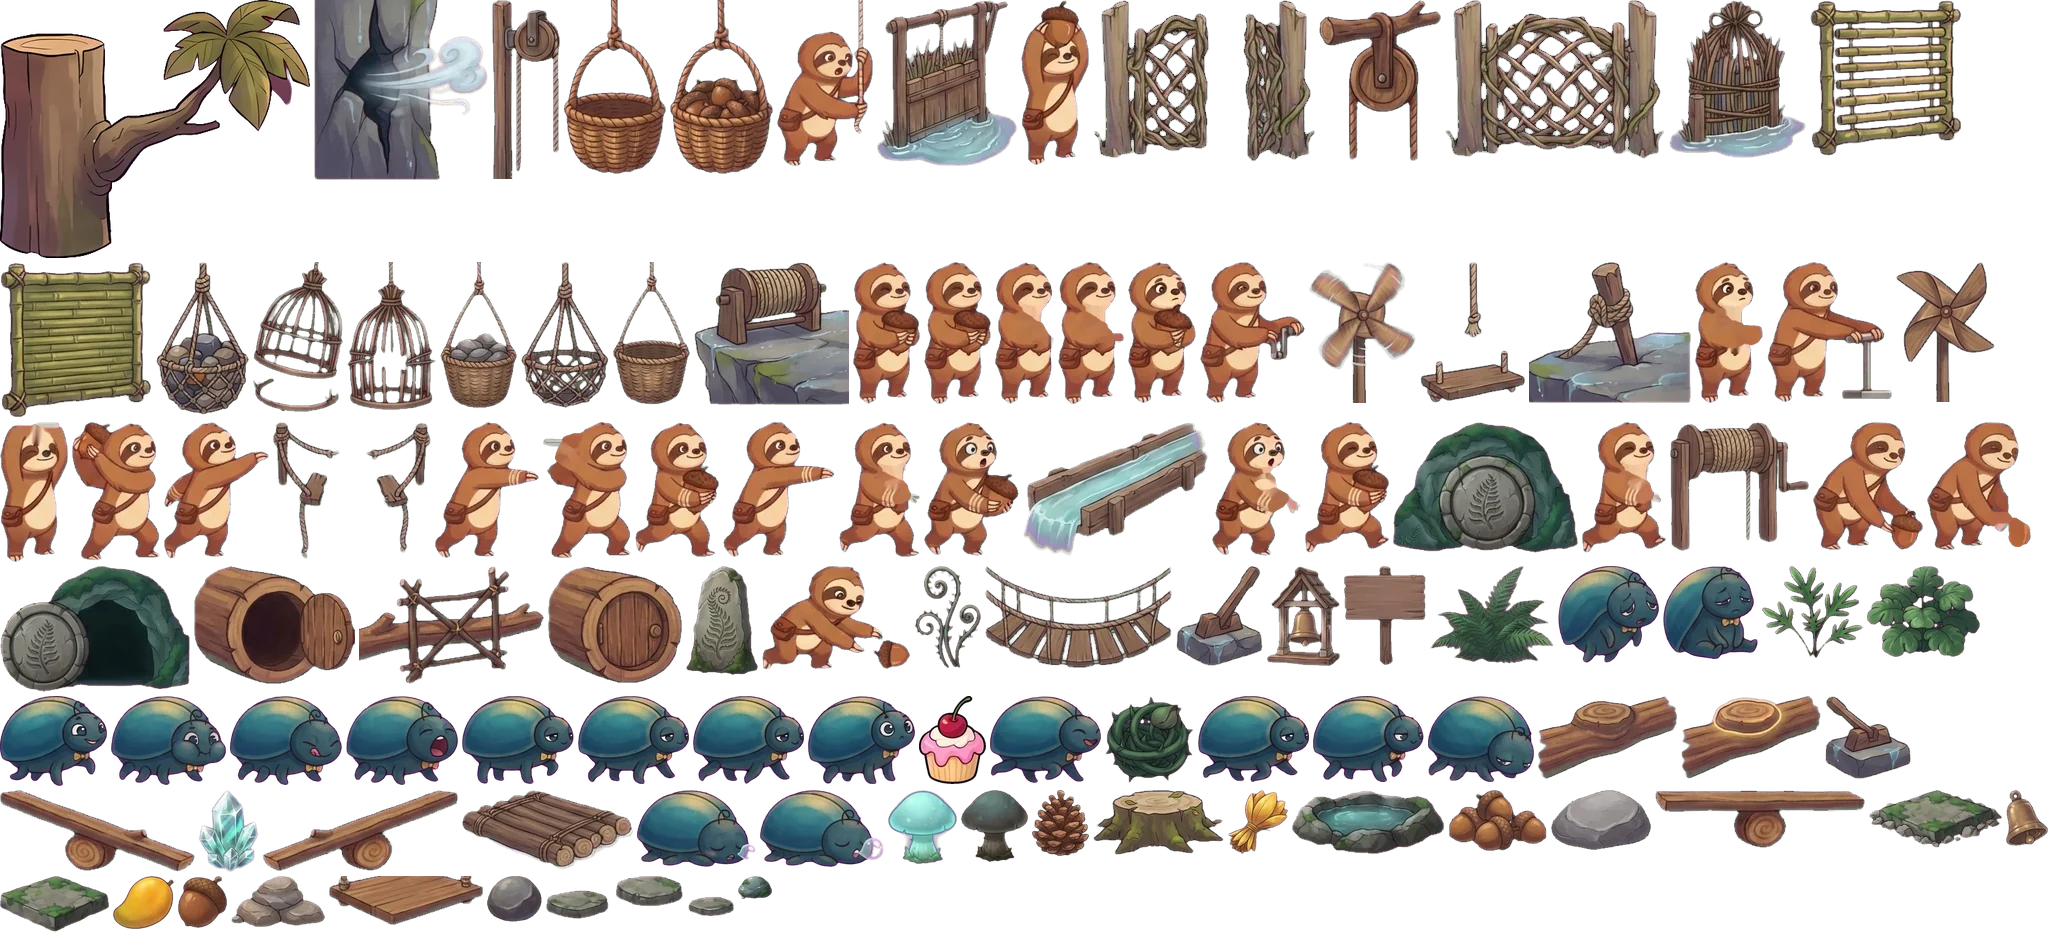
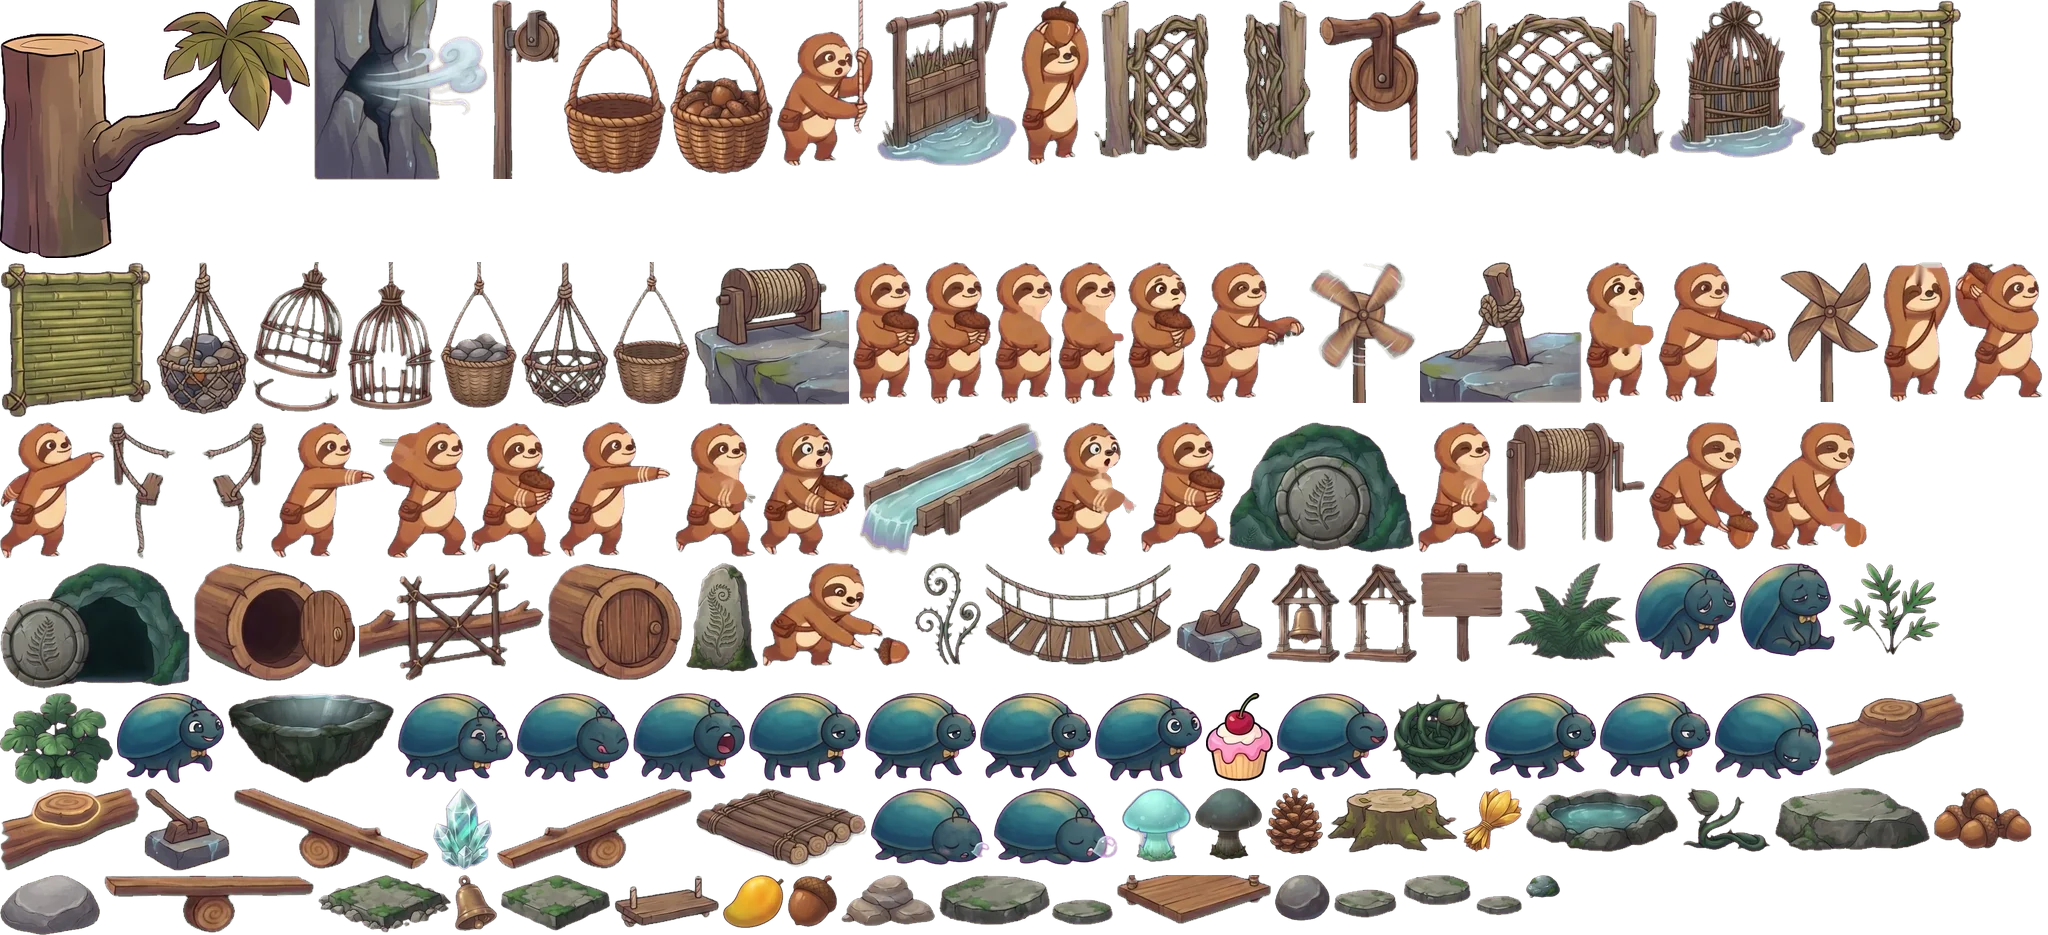
Puzzle kit atlas: the rest of Matt's World 1-4 sheet cells, and the state frames cut for use
- the belfry with its bell painted out (bellFrame), so the rung bell (bellRing) can swing in it
- World 2's pulley post without its painted hanging ropes (the game draws the real ones)
- World 4's rope lift cut to its plank (the lift's rope is the game's)
- Pokey's crank and push-lever poses with the painted crank and plunger taken out, so his hands go on the game's winch and lever
- World 3 cells 17-20 packed: the loose thorn vine, the stepping slabs, the big slab, the stone basin
- the river stone packed at a thrown stone's size
Atlas 2048 x 935, 600 KB.

Claude-Session: https://claude.ai/code/session_019iachLiuwNTAZUBSJWUmR3

diff --git a/src/game/puzzleAtlasData.ts b/src/game/puzzleAtlasData.ts
@@ -3,114 +3,119 @@
 // Pokey's hands (his carry poses); k: game px per atlas px.
 export interface KitFrame { x: number; y: number; w: number; h: number; ax: number; k: number; hx?: number; hy?: number }
 export const KIT_ART = {
-  p1: { x: 762, y: 566, w: 148, h: 104, ax: 68, k: 0.640, hx: 132, hy: 89 },
-  p2: { x: 924, y: 422, w: 95, h: 134, ax: 33, k: 0.640, hx: 70, hy: 67 },
+  p1: { x: 762, y: 563, w: 148, h: 104, ax: 68, k: 0.640, hx: 132, hy: 89 },
+  p2: { x: 760, y: 422, w: 95, h: 134, ax: 33, k: 0.640, hx: 70, hy: 67 },
   p3: { x: 1128, y: 262, w: 68, h: 141, ax: 26, k: 0.640, hx: 44, hy: 62 },
   p4: { x: 1021, y: 0, w: 68, h: 165, ax: 27, k: 0.640, hx: 40, hy: 18 },
-  p5: { x: 1305, y: 422, w: 84, h: 131, ax: 37, k: 0.640, hx: 64, hy: 56 },
+  p5: { x: 1141, y: 422, w: 84, h: 131, ax: 37, k: 0.640, hx: 64, hy: 56 },
   p6: { x: 853, y: 262, w: 67, h: 142, ax: 27, k: 0.640, hx: 48, hy: 56 },
-  p7: { x: 635, y: 422, w: 84, h: 135, ax: 50, k: 0.640, hx: 64, hy: 56 },
+  p7: { x: 471, y: 422, w: 84, h: 135, ax: 50, k: 0.640, hx: 64, hy: 56 },
   p8: { x: 924, y: 262, w: 67, h: 142, ax: 26, k: 0.640, hx: 48, hy: 56 },
-  p9: { x: 72, y: 422, w: 88, h: 138, ax: 45, k: 0.640, hx: 22, hy: 26 },
-  p10: { x: 164, y: 422, w: 105, h: 137, ax: 31, k: 0.640 },
-  p11: { x: 435, y: 422, w: 104, h: 136, ax: 30, k: 0.640 },
-  p12: { x: 723, y: 422, w: 112, h: 135, ax: 31, k: 0.640 },
-  p13: { x: 1813, y: 422, w: 110, h: 128, ax: 53, k: 0.640, hx: 91, hy: 103 },
+  p9: { x: 1955, y: 262, w: 88, h: 138, ax: 45, k: 0.640, hx: 22, hy: 26 },
+  p10: { x: 0, y: 422, w: 105, h: 137, ax: 31, k: 0.640 },
+  p11: { x: 271, y: 422, w: 104, h: 136, ax: 30, k: 0.640 },
+  p12: { x: 559, y: 422, w: 112, h: 135, ax: 31, k: 0.640 },
+  p13: { x: 1649, y: 422, w: 110, h: 128, ax: 53, k: 0.640, hx: 91, hy: 103 },
   p14: { x: 777, y: 0, w: 96, h: 166, ax: 30, k: 0.640 },
   p15: { x: 1200, y: 262, w: 105, h: 141, ax: 28, k: 0.640 },
-  p16: { x: 1767, y: 262, w: 125, h: 140, ax: 65, k: 0.640 },
-  b1: { x: 462, y: 696, w: 112, h: 88, ax: 44, k: 0.667 },
-  b2: { x: 578, y: 696, w: 111, h: 88, ax: 48, k: 0.667 },
-  b3: { x: 1198, y: 696, w: 111, h: 86, ax: 49, k: 0.667 },
-  b4: { x: 693, y: 696, w: 111, h: 88, ax: 50, k: 0.667 },
-  b5: { x: 1313, y: 696, w: 111, h: 86, ax: 47, k: 0.667 },
-  b6: { x: 808, y: 696, w: 107, h: 88, ax: 49, k: 0.667 },
-  b7: { x: 0, y: 696, w: 107, h: 90, ax: 41, k: 0.667 },
-  b8: { x: 990, y: 696, w: 111, h: 87, ax: 60, k: 0.667 },
-  b9: { x: 1428, y: 696, w: 106, h: 86, ax: 52, k: 0.667 },
-  b10: { x: 111, y: 696, w: 115, h: 89, ax: 49, k: 0.667 },
-  b11: { x: 230, y: 696, w: 112, h: 89, ax: 50, k: 0.667 },
-  b12: { x: 346, y: 696, w: 112, h: 89, ax: 50, k: 0.667 },
-  b13: { x: 1558, y: 566, w: 101, h: 97, ax: 41, k: 0.667 },
-  b14: { x: 1663, y: 566, w: 95, h: 93, ax: 49, k: 0.667 },
-  b15: { x: 637, y: 790, w: 119, h: 77, ax: 59, k: 0.667 },
-  b16: { x: 760, y: 790, w: 124, h: 77, ax: 60, k: 0.667 },
-  acorn: { x: 178, y: 876, w: 49, h: 52, ax: 19, k: 0.600 },
-  acornPile: { x: 1449, y: 790, w: 98, h: 61, ax: 45, k: 0.700 },
+  p16: { x: 1658, y: 262, w: 118, h: 140, ax: 29, k: 0.640 },
+  b1: { x: 749, y: 693, w: 112, h: 88, ax: 44, k: 0.667 },
+  b2: { x: 865, y: 693, w: 111, h: 88, ax: 48, k: 0.667 },
+  b3: { x: 1485, y: 693, w: 111, h: 86, ax: 49, k: 0.667 },
+  b4: { x: 980, y: 693, w: 111, h: 88, ax: 50, k: 0.667 },
+  b5: { x: 1600, y: 693, w: 111, h: 86, ax: 47, k: 0.667 },
+  b6: { x: 1095, y: 693, w: 107, h: 88, ax: 49, k: 0.667 },
+  b7: { x: 117, y: 693, w: 107, h: 90, ax: 41, k: 0.667 },
+  b8: { x: 1277, y: 693, w: 111, h: 87, ax: 60, k: 0.667 },
+  b9: { x: 1715, y: 693, w: 106, h: 86, ax: 52, k: 0.667 },
+  b10: { x: 398, y: 693, w: 115, h: 89, ax: 49, k: 0.667 },
+  b11: { x: 517, y: 693, w: 112, h: 89, ax: 50, k: 0.667 },
+  b12: { x: 633, y: 693, w: 112, h: 89, ax: 50, k: 0.667 },
+  b13: { x: 1635, y: 563, w: 101, h: 97, ax: 41, k: 0.667 },
+  b14: { x: 1740, y: 563, w: 95, h: 93, ax: 49, k: 0.667 },
+  b15: { x: 871, y: 788, w: 119, h: 77, ax: 59, k: 0.667 },
+  b16: { x: 994, y: 788, w: 124, h: 77, ax: 60, k: 0.667 },
+  acorn: { x: 788, y: 875, w: 49, h: 52, ax: 19, k: 0.600 },
+  acornPile: { x: 1934, y: 788, w: 98, h: 61, ax: 45, k: 0.700 },
   pulley: { x: 1319, y: 0, w: 122, h: 161, ax: 65, k: 0.688 },
   basket: { x: 564, y: 0, w: 102, h: 174, ax: 51, k: 0.625 },
   basketFull: { x: 670, y: 0, w: 103, h: 174, ax: 51, k: 0.625 },
-  liftPlank: { x: 329, y: 876, w: 154, h: 49, ax: 65, k: 0.688 },
-  plate: { x: 1538, y: 696, w: 139, h: 83, ax: 12, k: 0.667 },
-  platePressed: { x: 1681, y: 696, w: 140, h: 83, ax: 12, k: 0.667 },
-  stone: { x: 487, y: 876, w: 55, h: 46, ax: 26, k: 0.675 },
-  stonePile: { x: 231, y: 876, w: 94, h: 51, ax: 44, k: 0.667 },
-  sign: { x: 1344, y: 566, w: 82, h: 99, ax: 42, k: 0.720 },
-  leverOff: { x: 1176, y: 566, w: 87, h: 100, ax: 39, k: 0.633 },
-  leverOn: { x: 1825, y: 696, w: 86, h: 83, ax: 37, k: 0.633 },
-  pinecone: { x: 1032, y: 790, w: 57, h: 66, ax: 28, k: 0.600 },
+  liftPlank: { x: 1117, y: 875, w: 154, h: 49, ax: 65, k: 0.688 },
+  plate: { x: 1825, y: 693, w: 139, h: 83, ax: 12, k: 0.667 },
+  platePressed: { x: 0, y: 788, w: 140, h: 83, ax: 12, k: 0.667 },
+  stone: { x: 1275, y: 875, w: 55, h: 46, ax: 26, k: 0.675 },
+  stonePile: { x: 841, y: 875, w: 94, h: 51, ax: 44, k: 0.667 },
+  sign: { x: 1421, y: 563, w: 82, h: 99, ax: 42, k: 0.720 },
+  leverOff: { x: 1176, y: 563, w: 87, h: 100, ax: 39, k: 0.633 },
+  leverOn: { x: 144, y: 788, w: 86, h: 83, ax: 37, k: 0.633 },
+  pinecone: { x: 1266, y: 788, w: 57, h: 66, ax: 28, k: 0.600 },
   gateShut: { x: 1445, y: 0, w: 220, h: 159, ax: 112, k: 0.700 },
   gateOpen: { x: 1093, y: 0, w: 222, h: 162, ax: 114, k: 0.700 },
-  seesawLevel: { x: 1655, y: 790, w: 210, h: 58, ax: 106, k: 1.056 },
-  seesawUpR: { x: 262, y: 790, w: 196, h: 81, ax: 66, k: 1.056 },
-  seesawUpL: { x: 0, y: 790, w: 195, h: 82, ax: 128, k: 1.056 },
-  nestDoorShut: { x: 548, y: 566, w: 134, h: 117, ax: 77, k: 0.886 },
-  nestDoorOpen: { x: 194, y: 566, w: 161, h: 118, ax: 77, k: 0.886 },
-  petalBundle: { x: 1228, y: 790, w: 60, h: 64, ax: 16, k: 0.667 },
-  branchGate: { x: 359, y: 566, w: 185, h: 118, ax: 54, k: 0.875 },
-  riverStone: { x: 1551, y: 790, w: 100, h: 60, ax: 45, k: 0.750 },
-  pulleyPost: { x: 492, y: 0, w: 68, h: 179, ax: 12, k: 1.000 },
+  seesawLevel: { x: 104, y: 875, w: 210, h: 58, ax: 106, k: 1.056 },
+  seesawUpR: { x: 496, y: 788, w: 196, h: 81, ax: 66, k: 1.056 },
+  seesawUpL: { x: 234, y: 788, w: 195, h: 82, ax: 128, k: 1.056 },
+  nestDoorShut: { x: 548, y: 563, w: 134, h: 117, ax: 77, k: 0.886 },
+  nestDoorOpen: { x: 194, y: 563, w: 161, h: 118, ax: 77, k: 0.886 },
+  petalBundle: { x: 1462, y: 788, w: 60, h: 64, ax: 16, k: 0.667 },
+  branchGate: { x: 359, y: 563, w: 185, h: 118, ax: 54, k: 0.875 },
+  riverStone: { x: 0, y: 875, w: 100, h: 60, ax: 45, k: 0.500 },
+  pulleyPost: { x: 492, y: 0, w: 68, h: 179, ax: 10, k: 1.000 },
   basket2: { x: 613, y: 262, w: 77, h: 143, ax: 38, k: 0.714 },
   basket2Full: { x: 440, y: 262, w: 77, h: 146, ax: 39, k: 0.714 },
   cageShut: { x: 347, y: 262, w: 89, h: 148, ax: 44, k: 0.786 },
   cageLifted: { x: 253, y: 262, w: 90, h: 150, ax: 46, k: 0.786 },
   sluiceShut: { x: 1669, y: 0, w: 137, h: 158, ax: 62, k: 0.775 },
   sluiceOpen: { x: 877, y: 0, w: 140, h: 166, ax: 64, k: 0.775 },
-  channel: { x: 1023, y: 422, w: 185, h: 134, ax: 32, k: 0.875 },
-  bell: { x: 1267, y: 566, w: 73, h: 100, ax: 38, k: 0.800 },
-  bellRing: { x: 2006, y: 790, w: 42, h: 56, ax: 13, k: 0.720 },
-  winch2: { x: 1670, y: 422, w: 139, h: 129, ax: 35, k: 0.786 },
-  raft: { x: 462, y: 790, w: 171, h: 80, ax: 99, k: 0.875 },
-  mushroom: { x: 888, y: 790, w: 69, h: 74, ax: 35, k: 0.720 },
-  mushroomDim: { x: 961, y: 790, w: 67, h: 72, ax: 34, k: 0.720 },
-  pebble: { x: 738, y: 876, w: 34, h: 23, ax: 14, k: 0.629 },
-  fern1: { x: 1430, y: 566, w: 124, h: 98, ax: 67, k: 0.833 },
-  fern2: { x: 914, y: 566, w: 67, h: 102, ax: 37, k: 0.833 },
-  fern3: { x: 1867, y: 566, w: 113, h: 91, ax: 56, k: 0.833 },
-  fern4: { x: 1762, y: 566, w: 101, h: 92, ax: 52, k: 0.833 },
-  fernStone: { x: 686, y: 566, w: 72, h: 109, ax: 37, k: 0.833 },
-  fernDoorShut: { x: 1393, y: 422, w: 185, h: 131, ax: 93, k: 0.875 },
-  fernDoorOpen: { x: 0, y: 566, w: 190, h: 126, ax: 99, k: 0.875 },
-  stonePlate: { x: 0, y: 876, w: 109, h: 56, ax: 54, k: 0.750 },
-  stonePlateDown: { x: 1869, y: 790, w: 133, h: 58, ax: 65, k: 0.750 },
-  thornTangle: { x: 1105, y: 696, w: 89, h: 87, ax: 42, k: 0.833 },
-  crystal: { x: 199, y: 790, w: 59, h: 82, ax: 30, k: 0.800 },
-  steppingStones: { x: 546, y: 876, w: 188, h: 43, ax: 59, k: 0.938 },
-  pool: { x: 1292, y: 790, w: 153, h: 64, ax: 73, k: 0.938 },
+  channel: { x: 859, y: 422, w: 185, h: 134, ax: 32, k: 0.875 },
+  bell: { x: 1267, y: 563, w: 73, h: 100, ax: 38, k: 0.800 },
+  bellFrame: { x: 1344, y: 563, w: 73, h: 100, ax: 38, k: 0.800 },
+  bellRing: { x: 455, y: 875, w: 42, h: 56, ax: 13, k: 0.720 },
+  winch2: { x: 1506, y: 422, w: 139, h: 129, ax: 35, k: 0.786 },
+  raft: { x: 696, y: 788, w: 171, h: 80, ax: 99, k: 0.875 },
+  mushroom: { x: 1122, y: 788, w: 69, h: 74, ax: 35, k: 0.720 },
+  mushroomDim: { x: 1195, y: 788, w: 67, h: 72, ax: 34, k: 0.720 },
+  pebble: { x: 1526, y: 875, w: 34, h: 23, ax: 14, k: 0.629 },
+  fern1: { x: 1507, y: 563, w: 124, h: 98, ax: 67, k: 0.833 },
+  fern2: { x: 914, y: 563, w: 67, h: 102, ax: 37, k: 0.833 },
+  fern3: { x: 0, y: 693, w: 113, h: 91, ax: 56, k: 0.833 },
+  fern4: { x: 1839, y: 563, w: 101, h: 92, ax: 52, k: 0.833 },
+  fernStone: { x: 686, y: 563, w: 72, h: 109, ax: 37, k: 0.833 },
+  fernDoorShut: { x: 1229, y: 422, w: 185, h: 131, ax: 93, k: 0.875 },
+  fernDoorOpen: { x: 0, y: 563, w: 190, h: 126, ax: 99, k: 0.875 },
+  stonePlate: { x: 501, y: 875, w: 109, h: 56, ax: 54, k: 0.750 },
+  stonePlateDown: { x: 318, y: 875, w: 133, h: 58, ax: 65, k: 0.750 },
+  thornTangle: { x: 1392, y: 693, w: 89, h: 87, ax: 42, k: 0.833 },
+  crystal: { x: 433, y: 788, w: 59, h: 82, ax: 30, k: 0.800 },
+  steppingStones: { x: 1334, y: 875, w: 188, h: 43, ax: 59, k: 0.938 },
+  pool: { x: 1526, y: 788, w: 153, h: 64, ax: 73, k: 0.938 },
+  thornLoose: { x: 1683, y: 788, w: 88, h: 64, ax: 50, k: 0.833 },
+  slabStones: { x: 939, y: 875, w: 174, h: 50, ax: 91, k: 0.938 },
+  slab: { x: 1775, y: 788, w: 155, h: 63, ax: 72, k: 0.938 },
+  basin: { x: 228, y: 693, w: 166, h: 90, ax: 79, k: 0.938 },
   shutterOpen: { x: 1810, y: 0, w: 152, h: 156, ax: 31, k: 0.875 },
   shutterShut: { x: 0, y: 262, w: 152, h: 156, ax: 30, k: 0.875 },
-  pinwheel: { x: 1896, y: 262, w: 99, h: 140, ax: 46, k: 0.857 },
+  pinwheel: { x: 1780, y: 262, w: 99, h: 140, ax: 46, k: 0.857 },
   pinwheelSpin: { x: 1309, y: 262, w: 107, h: 141, ax: 50, k: 0.857 },
   winch: { x: 694, y: 262, w: 155, h: 143, ax: 85, k: 0.786 },
-  ropeLift: { x: 1420, y: 262, w: 105, h: 141, ax: 40, k: 0.857 },
+  ropeLift: { x: 614, y: 875, w: 105, h: 53, ax: 24, k: 0.857 },
   net: { x: 521, y: 262, w: 88, h: 146, ax: 44, k: 0.714 },
   netFull: { x: 156, y: 262, w: 93, h: 153, ax: 47, k: 0.714 },
-  mango: { x: 113, y: 876, w: 61, h: 53, ax: 23, k: 0.650 },
-  tradeStump: { x: 1093, y: 790, w: 131, h: 65, ax: 58, k: 0.833 },
+  mango: { x: 723, y: 875, w: 61, h: 53, ax: 23, k: 0.650 },
+  tradeStump: { x: 1327, y: 788, w: 131, h: 65, ax: 58, k: 0.833 },
   gustCrack: { x: 314, y: 0, w: 174, h: 180, ax: 62, k: 1.000 },
-  bridgeBroken: { x: 273, y: 422, w: 158, h: 137, ax: 71, k: 1.000 },
-  bridge: { x: 985, y: 566, w: 187, h: 102, ax: 93, k: 1.000 },
-  anchorPeg: { x: 1529, y: 262, w: 162, h: 141, ax: 80, k: 0.786 },
-  e2: { x: 1212, y: 422, w: 89, h: 134, ax: 33, k: 0.640, hx: 70, hy: 67 },
-  e3: { x: 1695, y: 262, w: 68, h: 141, ax: 26, k: 0.640, hx: 44, hy: 62 },
-  e4: { x: 0, y: 422, w: 68, h: 140, ax: 26, k: 0.640, hx: 40, hy: -7 },
-  e5: { x: 1582, y: 422, w: 84, h: 131, ax: 37, k: 0.640, hx: 64, hy: 56 },
+  bridgeBroken: { x: 109, y: 422, w: 158, h: 137, ax: 71, k: 1.000 },
+  bridge: { x: 985, y: 563, w: 187, h: 102, ax: 93, k: 1.000 },
+  anchorPeg: { x: 1420, y: 262, w: 162, h: 141, ax: 80, k: 0.786 },
+  e2: { x: 1048, y: 422, w: 89, h: 134, ax: 33, k: 0.640, hx: 70, hy: 67 },
+  e3: { x: 1586, y: 262, w: 68, h: 141, ax: 26, k: 0.640, hx: 44, hy: 62 },
+  e4: { x: 1883, y: 262, w: 68, h: 140, ax: 26, k: 0.640, hx: 40, hy: -7 },
+  e5: { x: 1418, y: 422, w: 84, h: 131, ax: 37, k: 0.640, hx: 64, hy: 56 },
   e6: { x: 995, y: 262, w: 59, h: 142, ax: 26, k: 0.640, hx: 48, hy: 56 },
-  e7: { x: 839, y: 422, w: 81, h: 135, ax: 50, k: 0.640, hx: 64, hy: 56 },
+  e7: { x: 675, y: 422, w: 81, h: 135, ax: 50, k: 0.640, hx: 64, hy: 56 },
   e8: { x: 1058, y: 262, w: 66, h: 142, ax: 26, k: 0.640, hx: 48, hy: 56 },
-  e9: { x: 543, y: 422, w: 88, h: 136, ax: 44, k: 0.640, hx: 21, hy: 24 },
-  e13: { x: 1927, y: 422, w: 104, h: 128, ax: 49, k: 0.640, hx: 91, hy: 103 },
-  cake: { x: 919, y: 696, w: 67, h: 88, ax: 34, k: 0.500 },
+  e9: { x: 379, y: 422, w: 88, h: 136, ax: 44, k: 0.640, hx: 21, hy: 24 },
+  e13: { x: 1763, y: 422, w: 104, h: 128, ax: 49, k: 0.640, hx: 91, hy: 103 },
+  cake: { x: 1206, y: 693, w: 67, h: 88, ax: 34, k: 0.500 },
   acornTree: { x: 0, y: 0, w: 310, h: 258, ax: 62, k: 1.163 },
 } as const satisfies Record<string, KitFrame>;
 export type KitArtName = keyof typeof KIT_ART;

diff --git a/tools/art/w5puzzle/packkit.py b/tools/art/w5puzzle/packkit.py
@@ -30,10 +30,16 @@ REF = os.path.join(ROOT, 'reference', 'prop-sheets')
 # where the held thing is in each of Pokey's carry poses, in the 256 px cell of the sheet (measured by eye off the 1024 sheet)
 HANDS = {1: (215, 200), 2: (164, 130), 3: (143, 125), 4: (137, 35), 5: (155, 109), 6: (149, 109), 7: (153, 109), 8: (147, 109),
          9: (85, 68), 13: (175, 192)}
+# the painted crank (15) and plunger (16) in Pokey's use poses, in the 256 px cell (boxes of grey metal painted out: cell 'clear')
+DEVICE = {15: [(146, 122, 190, 178, 'grey')], 16: [(138, 130, 216, 153, 'grey'), (140, 150, 226, 230, 'grey')]}
 # (sheet folder, sheet, cell number 1.., name, scale, options)
 WANT = []
 for i in range(1, 17):
     opt = {'largest': i in (1, 10, 11, 12), 'hand': HANDS.get(i), 'game': 0.48}
+    # (his rope pull keeps its rope: the game hangs it from the bell. The crank and the push-lever poses lose their painted metal handle
+    # and post, so his hands go on the game's own winch and lever: puzzlePlay.ts usePose)
+    if i in DEVICE:
+        opt['clear'] = DEVICE[i]
     WANT.append(('w1to4', 'pokey-carry', i, f'p{i}', 0.75, opt))
 for i in range(1, 17):
     WANT.append(('w5puzzle', 'beetle', i, f'b{i}', 0.6, {'flip': i >= 9, 'game': 0.4}))
@@ -60,25 +66,85 @@ WANT += [
 for sheet, rows in {
     'w1-puzzle': [(1, 'seesawLevel', 0.9, 0.95), (2, 'seesawUpR', 0.9, 0.95), (3, 'seesawUpL', 0.9, 0.95), (12, 'nestDoorShut', 0.7, 0.62),
                   (13, 'nestDoorOpen', 0.7, 0.62), (15, 'petalBundle', 0.45, 0.3), (16, 'branchGate', 0.8, 0.7)],
-    'w2-puzzle': [(1, 'riverStone', 0.6, 0.45), (3, 'pulleyPost', 0.8, 0.8), (4, 'basket2', 0.7, 0.5), (5, 'basket2Full', 0.7, 0.5),
+    'w2-puzzle': [(1, 'riverStone', 0.6, 0.3), (3, 'pulleyPost', 0.8, 0.8, {'clear': [(106, 104, 256, 256, 'all')]}), (4, 'basket2', 0.7, 0.5), (5, 'basket2Full', 0.7, 0.5),
                   (6, 'cageShut', 0.7, 0.55), (7, 'cageLifted', 0.7, 0.55), (8, 'sluiceShut', 0.8, 0.62), (9, 'sluiceOpen', 0.8, 0.62),
-                  (10, 'channel', 0.8, 0.7), (11, 'bell', 0.6, 0.48), (12, 'bellRing', 0.5, 0.36), (13, 'winch2', 0.7, 0.55), (14, 'raft', 0.8, 0.7)],
+                  (10, 'channel', 0.8, 0.7), (11, 'bell', 0.6, 0.48), (11, 'bellFrame', 0.6, 0.48, {'clear': [(96, 98, 164, 176, 'bronze')]}), (12, 'bellRing', 0.5, 0.36), (13, 'winch2', 0.7, 0.55), (14, 'raft', 0.8, 0.7)],
     'w3-puzzle': [(1, 'mushroom', 0.5, 0.36), (2, 'mushroomDim', 0.5, 0.36), (3, 'pebble', 0.35, 0.22), (4, 'fern1', 0.6, 0.5),
                   (5, 'fern2', 0.6, 0.5), (6, 'fern3', 0.6, 0.5), (7, 'fern4', 0.6, 0.5), (8, 'fernStone', 0.6, 0.5),
                   (9, 'fernDoorShut', 0.8, 0.7), (10, 'fernDoorOpen', 0.8, 0.7), (11, 'stonePlate', 0.6, 0.45), (12, 'stonePlateDown', 0.6, 0.45),
-                  (13, 'thornTangle', 0.6, 0.5), (14, 'crystal', 0.5, 0.4), (15, 'steppingStones', 0.8, 0.75), (16, 'pool', 0.8, 0.75)],
+                  (13, 'thornTangle', 0.6, 0.5), (14, 'crystal', 0.5, 0.4), (15, 'steppingStones', 0.8, 0.75), (16, 'pool', 0.8, 0.75),
+                  (17, 'thornLoose', 0.6, 0.5), (18, 'slabStones', 0.8, 0.75), (19, 'slab', 0.8, 0.75), (20, 'basin', 0.8, 0.75)],
     'w4-puzzle': [(1, 'shutterOpen', 0.8, 0.7), (2, 'shutterShut', 0.8, 0.7), (3, 'pinwheel', 0.7, 0.6), (4, 'pinwheelSpin', 0.7, 0.6),
-                  (5, 'winch', 0.7, 0.55), (6, 'ropeLift', 0.7, 0.6), (7, 'net', 0.7, 0.5), (8, 'netFull', 0.7, 0.5), (11, 'mango', 0.4, 0.26),
+                  (5, 'winch', 0.7, 0.55), (6, 'ropeLift', 0.7, 0.6, {'bottom': 0.42}), (7, 'net', 0.7, 0.5), (8, 'netFull', 0.7, 0.5), (11, 'mango', 0.4, 0.26),
                   (12, 'tradeStump', 0.6, 0.5), (13, 'gustCrack', 0.8, 0.8), (14, 'bridgeBroken', 0.8, 0.8), (15, 'bridge', 0.8, 0.8),
                   (16, 'anchorPeg', 0.7, 0.55)],
 }.items():
-    for idx, name, sc, game in rows:
-        WANT.append(('w1to4', sheet, idx, name, sc, {'game': game}))
+    for idx, name, sc, game, *more in rows:
+        WANT.append(('w1to4', sheet, idx, name, sc, {'game': game, **(more[0] if more else {})}))
 # Pokey's carry poses with the painted acorn taken out (and the hole painted over with what is round it), for carrying anything else:
 # the game draws the carried thing from this sheet in his hands (puzzlePlay.ts drawPokey)
 for i in (2, 3, 4, 5, 6, 7, 8, 9, 13):
     WANT.append(('w1to4', 'pokey-carry', i, f'e{i}', 0.75, {'hand': HANDS.get(i), 'game': 0.48, 'noacorn': HANDS[i]}))
 SHEETS = {**cut.FOLDERS['w1to4'], **cut.FOLDERS['w5puzzle']}
+
+
+def fill_hole(im, x0, y0, hole):
+    """paint over `hole` (a mask of the inset cell at x0, y0) from the outside in, as take_acorn does"""
+    cell = im[y0:y0 + hole.shape[0], x0:x0 + hole.shape[1]].copy()
+    known = ~hole
+    for _ in range(120):
+        if known.all():
+            break
+        ring = ndimage.binary_dilation(known) & ~known
+        acc = np.zeros_like(cell)
+        cnt = np.zeros(cell.shape[:2])
+        for dy in (-1, 0, 1):
+            for dx in (-1, 0, 1):
+                if not dx and not dy:
+                    continue
+                k = np.roll(np.roll(known, dy, 0), dx, 1)
+                v = np.roll(np.roll(cell, dy, 0), dx, 1)
+                acc += v * k[..., None]
+                cnt += k
+        cell[ring] = acc[ring] / np.maximum(1, cnt[ring])[:, None]
+        known = known | ring
+    out = im.copy()
+    out[y0:y0 + cell.shape[0], x0:x0 + cell.shape[1]] = cell
+    return out
+
+
+def clear_boxes(im, x0, y0, x1, y1, boxes):
+    """take a painted part out of a cell (boxes in the cell's own px, from its corner): 'all' turns the box to the key colour, 'bronze'
+    turns its bell-bronze pixels to the key colour (the bell out of its belfry), 'grey' paints its grey metal over from round it (the
+    crank and the plunger out of Pokey's hands)"""
+    cell = im[y0:y1, x0:x1]
+    R, G, B = cell[..., 0], cell[..., 1], cell[..., 2]
+    yy, xx = np.mgrid[0:cell.shape[0], 0:cell.shape[1]]
+    xx, yy = xx + cut.INSET, yy + cut.INSET
+    key = np.clip((np.minimum(R, B) - G) / 255, 0, 1)
+    for bx0, by0, bx1, by1, mode in boxes:
+        box = (xx >= bx0) & (xx < bx1) & (yy >= by0) & (yy < by1)
+        if mode == 'all':
+            m = box
+        elif mode == 'bronze':
+            m = box & (key < 0.2) & (R - B > 35)
+            m = ndimage.binary_dilation(m, iterations=2) & box
+        else:
+            sat = np.max(cell, axis=2) - np.min(cell, axis=2)
+            m = box & (key < 0.2) & (sat < 48)
+            m = ndimage.binary_dilation(ndimage.binary_closing(m, iterations=2), iterations=2) & box
+        if mode == 'grey':
+            im = fill_hole(im, x0, y0, m)
+            cell = im[y0:y1, x0:x1]
+            R, G, B = cell[..., 0], cell[..., 1], cell[..., 2]
+            key = np.clip((np.minimum(R, B) - G) / 255, 0, 1)
+        else:
+            im = im.copy()
+            im[y0:y1, x0:x1][m] = (255, 0, 255)
+            cell = im[y0:y1, x0:x1]
+            R, G, B = cell[..., 0], cell[..., 1], cell[..., 2]
+            key = np.clip((np.minimum(R, B) - G) / 255, 0, 1)
+    return im
 
 
 def take_acorn(im, x0, y0, hand):
@@ -130,6 +196,8 @@ def cell(folder, sheet, idx, opt):
     x1, y1 = int((c + 1) * cw) - cut.INSET, int((r + 1) * ch) - cut.INSET
     if opt.get('noacorn'):
         im = take_acorn(im, x0, y0, opt['noacorn'])
+    if opt.get('clear'):
+        im = clear_boxes(im, x0, y0, x1, y1, opt['clear'])
     k = cut.keyness(im[y0:y1, x0:x1], key)
     out = cut.cut_cell(im[y0:y1, x0:x1], key, depink=sheet in cut.DEPINK)
     # where the trimmed cut sits in the cell (cut_cell trims to alpha > 0.02 of the same mask)
